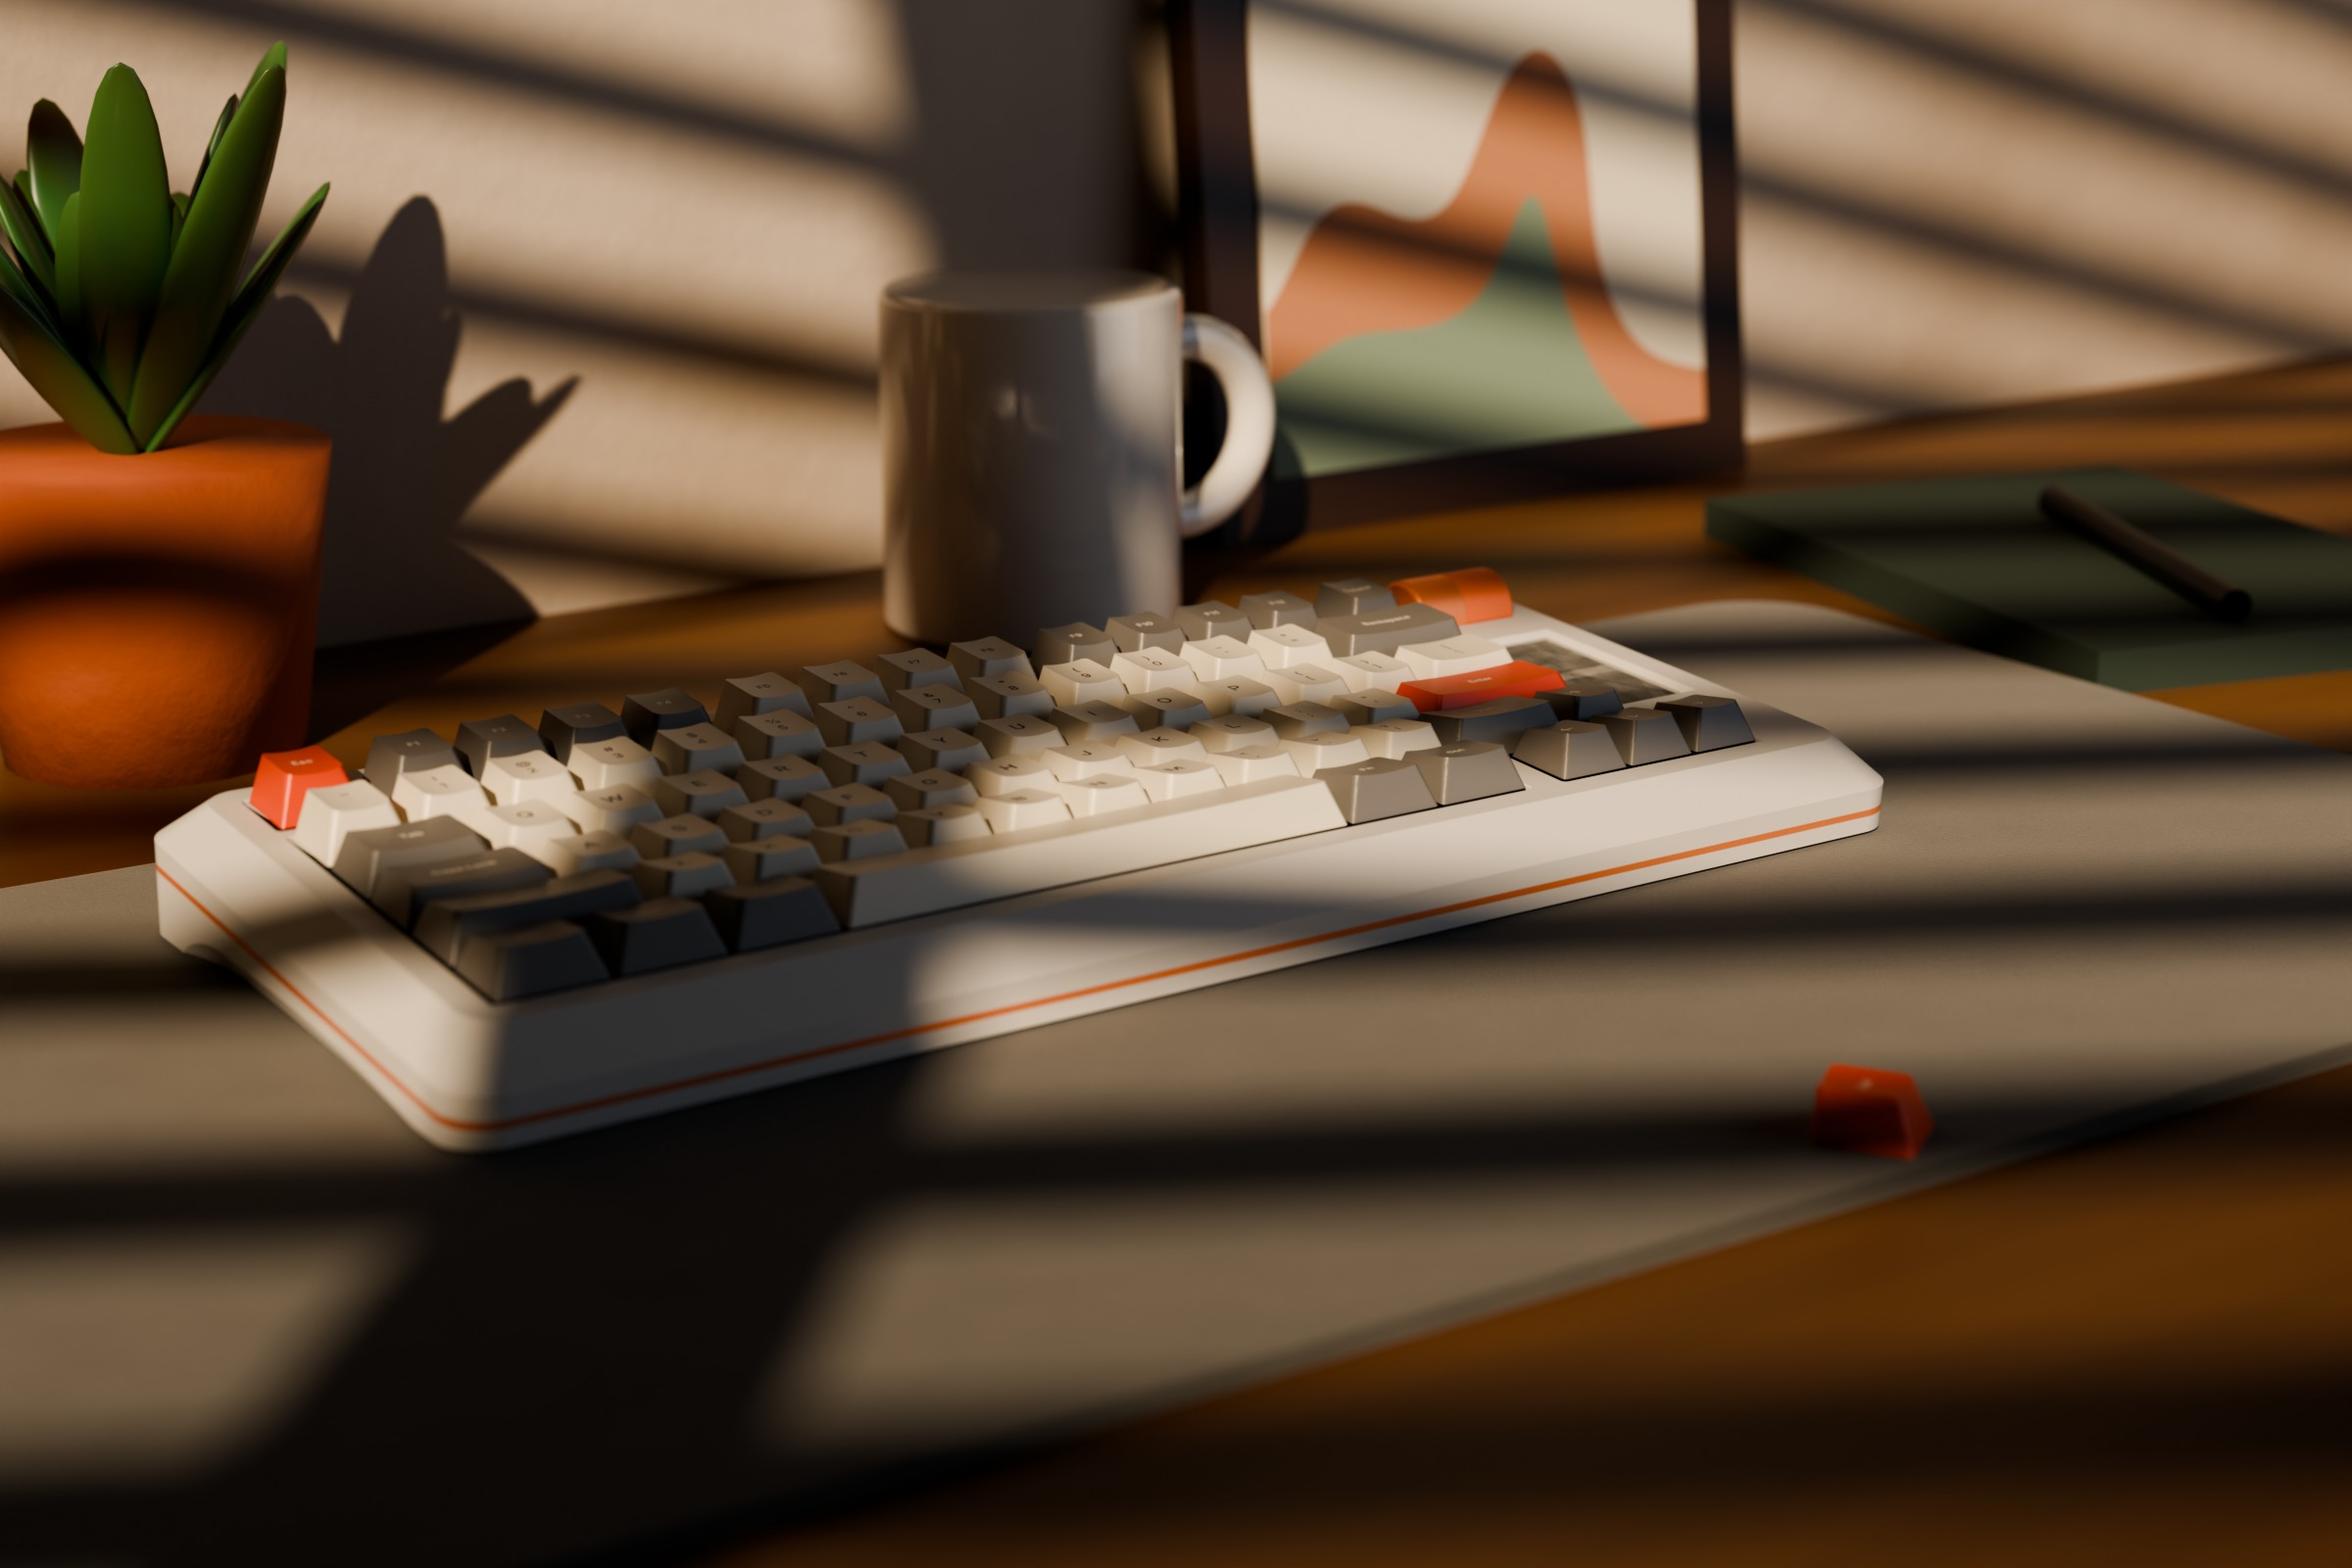
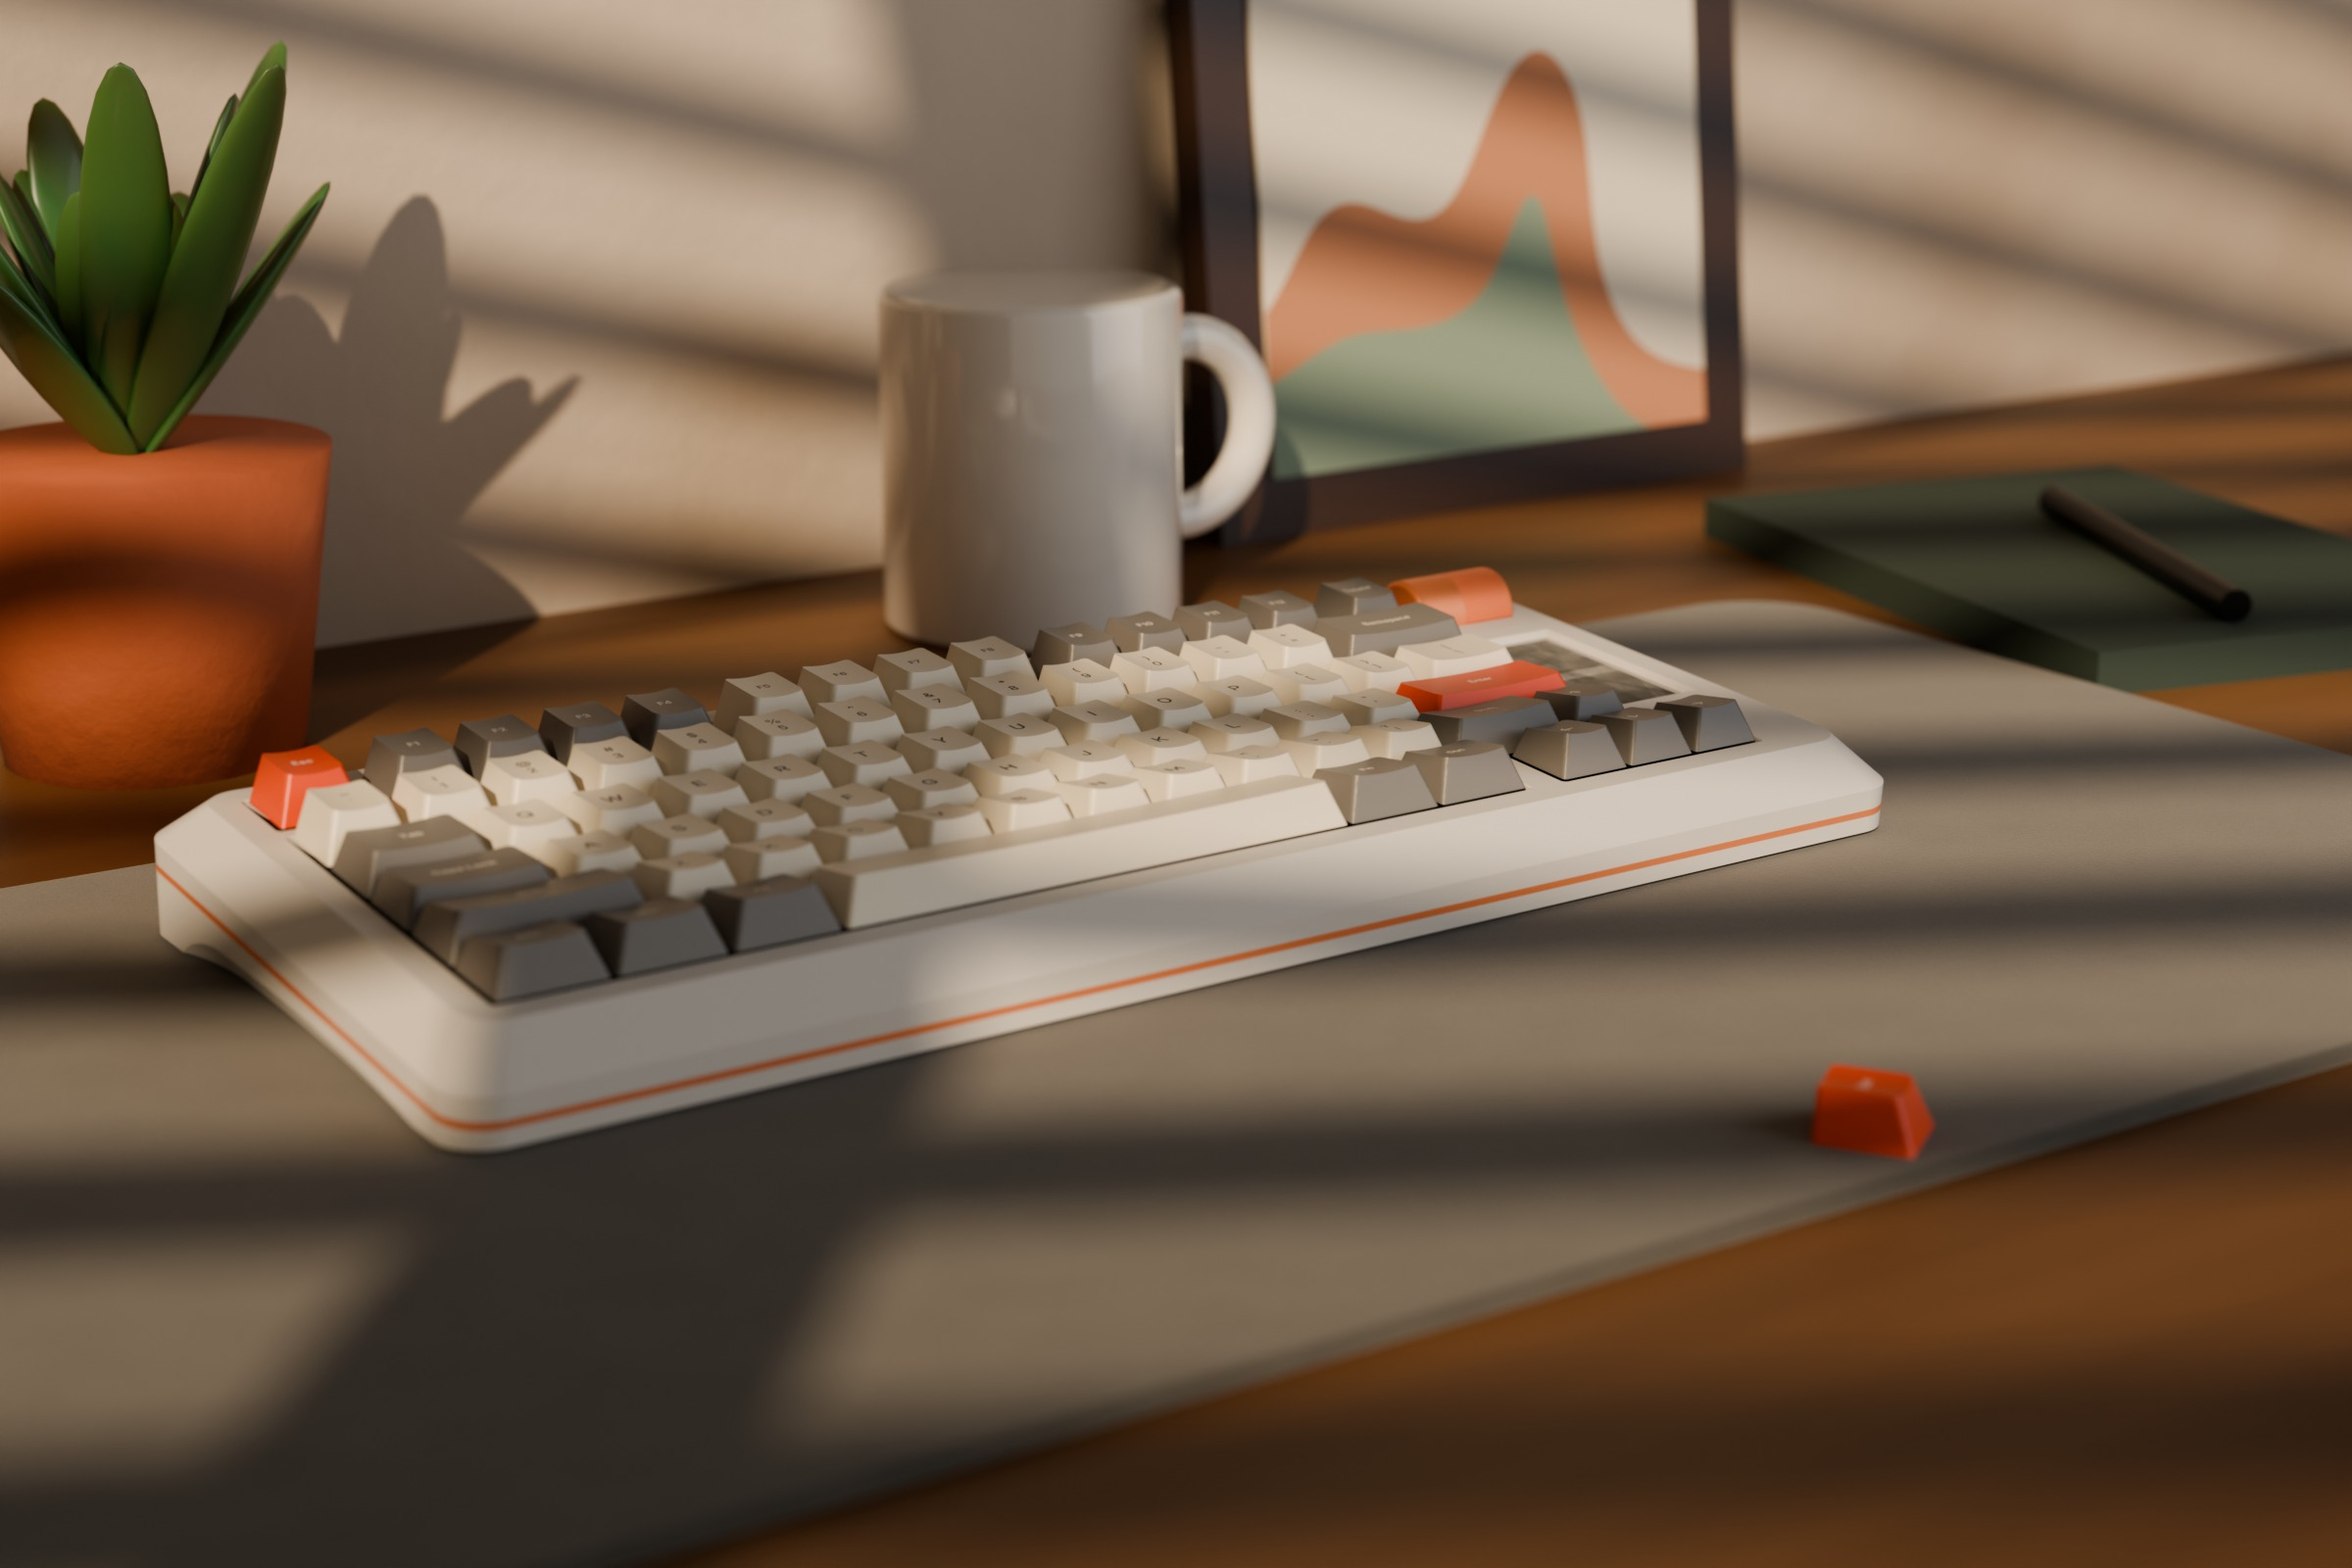
Case renders: softer dramatic lighting, drop the simple renders
Tiam's review: the dramatic shot was dark and blown out at once. Softer sun,
more shadow fill, no clipped highlights. The two simple renders are gone.

diff --git a/hardware/case/blender/render.py b/hardware/case/blender/render.py
@@ -26,8 +26,8 @@ sc.cycles.use_adaptive_sampling = True
 sc.cycles.use_denoising = True
 sc.cycles.max_bounces = 10; sc.cycles.transmission_bounces = 10; sc.cycles.glossy_bounces = 6
 sc.view_settings.view_transform = "AgX"
-sc.view_settings.look = "AgX - High Contrast" if SCENE == "dramatic" else "AgX - Medium High Contrast"
-sc.view_settings.exposure = {"dramatic": -0.35, "views": -0.3, "simple": 0.3}.get(SCENE, 0.0)
+sc.view_settings.look = "AgX - Medium High Contrast"
+sc.view_settings.exposure = {"dramatic": 0.0, "views": -0.3, "simple": 0.3}.get(SCENE, 0.0)
 sc.render.image_settings.file_format = "PNG"
 sc.render.film_transparent = False
 
@@ -162,7 +162,7 @@ CTR = Vector(((lo.x + hi.x) / 2, (lo.y + hi.y) / 2, 0.012))
 
 # =====================================================================
 if SCENE == "dramatic":
-    world("#1A2030", 0.05)
+    world("#8C93A0", 0.10)
     plaster = surface_mat("Plaster", "#A08E7A", "#CDBFAD", scale=30, bump=0.9, rough=0.92)
     wood = surface_mat("Oak desk", "#432A18", "#8E6640", scale=6, bump=0.10, rough=0.45, voronoi=False,
                        stretch=(0.25, 16.0, 1.0))
@@ -173,7 +173,7 @@ if SCENE == "dramatic":
     box("Wall", (3.0, 0.05, 2.0), (0, 0.30 + 0.025, 1.0), plaster)
     # Low warm sun from the front left, through a window with blinds (a gobo card)
     d = Vector((0.62, 0.62, -0.48)).normalized()
-    sun = bpy.data.lights.new("Sun", "SUN"); sun.energy = 6.5; sun.angle = math.radians(0.8)
+    sun = bpy.data.lights.new("Sun", "SUN"); sun.energy = 4.6; sun.angle = math.radians(0.8)
     sun.color = (1.0, 0.78, 0.55)
     so = link(bpy.data.objects.new("Sun", sun)); so.rotation_euler = d.to_track_quat("-Z", "Y").to_euler()
     g = bpy.data.materials.new("Gobo"); g.use_nodes = True; nt = g.node_tree
@@ -206,7 +206,8 @@ if SCENE == "dramatic":
     gp.rotation_euler = (-d).to_track_quat("Z", "Y").to_euler()
     gp.rotation_euler.rotate_axis("Z", math.radians(8))
     gp.visible_camera = False; gp.visible_glossy = False
-    area("Fill", (0.9, -0.9, 0.4), CTR, 1.0, 4, (0.7, 0.8, 1.0))
+    area("Fill", (0.9, -0.9, 0.4), CTR, 1.2, 7, (0.85, 0.9, 1.0))
+    area("Bounce", (-0.2, -1.0, 0.15), CTR, 1.6, 4, (1.0, 0.86, 0.7))
     # Props: ceramic mug, a notebook, two loose keycaps
     mug_m = simple_mat("Glazed ceramic", "#ECE6DA", 0.1, **{"Coat Weight": 0.6})
     bpy.ops.mesh.primitive_cylinder_add(radius=0.042, depth=0.095, vertices=128, location=(0.13, 0.215, 0.0475))

diff --git a/hardware/case/blender/README.md b/hardware/case/blender/README.md
@@ -7,8 +7,6 @@ They show the preliminary look; they are not a spec. The Fusion model is still t
 | --- | --- |
 | `renders/01-dramatic.jpg` | Low warm sun through window blinds: felt desk mat, oak desk, plaster wall, plant, framed print, mug, notebook and a loose keycap |
 | `renders/02-views.jpg` | Hero view plus back, right end, knob close-up, plan, underside and the brass weight, on sage paper |
-| `renders/03-simple-orange.jpg` | Plan view on white, orange anodised ring, knob and encoder cover |
-| `renders/03-simple-green.jpg` | The same with green anodising |
 
 Finishes: warm light-grey matte e-coat case, GMK Kaiju-style keycaps (cream alphas, warm grey mods, red-orange
 Esc and Enter), anodised ring, knob and encoder cover (orange `#FF9A66` or green `#2F6B3A`), polished brass weight, stainless
@@ -24,7 +22,6 @@ SRC="$PWD/hardware/case/step/Dachshund70-Case-Assembly.step" OUT=/path/to/work/m
 MESH=/path/to/work/mesh OUT=/path/to/work ACCENT=orange blender -b --factory-startup --python hardware/case/blender/build.py
 blender -b /path/to/work/base_orange.blend --python hardware/case/blender/render.py -- dramatic /path/to/work/out 1024
 blender -b /path/to/work/base_orange.blend --python hardware/case/blender/render.py -- views /path/to/work/out 512
-blender -b /path/to/work/base_orange.blend --python hardware/case/blender/render.py -- simple /path/to/work/out 512
 ```
 
 `ACCENT=green` builds the green variant. The case parts in the assembly STEP are unnamed compounds; `build.py`
